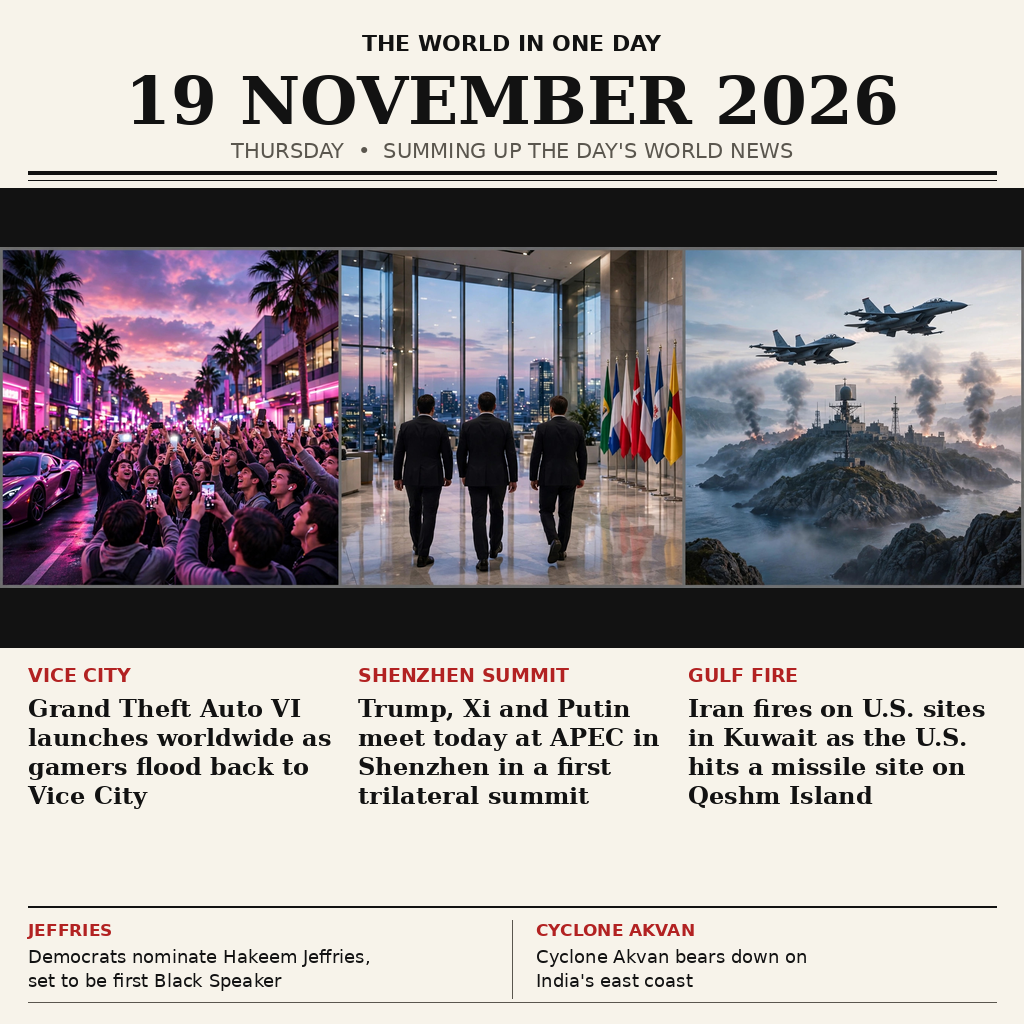
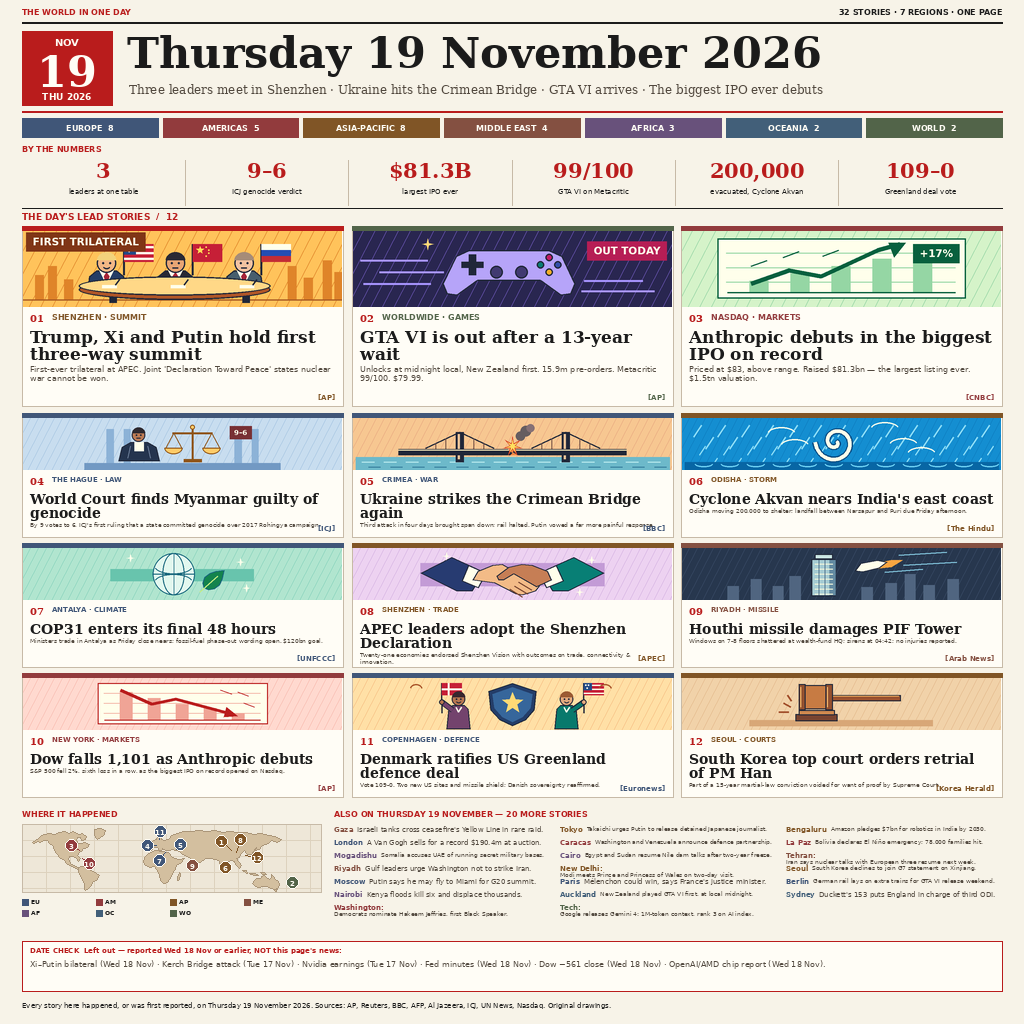
Revise entry: update LICENSE, README.md, entry.png, and main.py

diff --git a/main.py b/main.py
@@ -1,49 +1,51 @@
 #!/usr/bin/env python3
 """
-main.py - Entry script for the make.fun bounty "news-image-20261119".
-
-This script locates the pre-rendered newspaper front page entry image ('entry.png')
-relative to its own directory, determines the target output directory from the
-MAKEFUN_OUTPUT_DIR environment variable (falling back to '/output'), ensures
-the directory exists, and copies the image bytes to '<output>/entry.png'.
+main.py - Copies entry.png to the target make.fun output directory with byte verification.
+Part of the classic-newspaper revision of the news-image-20261119 entry, summarizing
+Thursday 19 November 2026 world news in a dense, information-rich 1024x1024 front page.
 """
 
 import os
 import sys
-from pathlib import Path
 
-
-def main() -> None:
-    # Resolve the script's own directory to locate entry.png reliably
-    script_dir = Path(__file__).resolve().parent
-    source_image = script_dir / "entry.png"
-
-    # Get output directory from environment variable or default to /output
-    output_dir_str = os.environ.get("MAKEFUN_OUTPUT_DIR", "/output")
-    output_dir = Path(output_dir_str)
-
-    # Create output directory if it doesn't exist
-    output_dir.mkdir(parents=True, exist_ok=True)
-
-    target_image = output_dir / "entry.png"
-
-    # Read bytes from source and write to target
-    image_bytes = source_image.read_bytes()
-    target_image.write_bytes(image_bytes)
-
-    # Read-back verification
-    if not target_image.exists():
-        print(f"Error: Target image {target_image} is missing after write.", file=sys.stderr)
+def main():
+    # Resolve script directory and source image path
+    script_dir = os.path.dirname(os.path.abspath(__file__))
+    src_path = os.path.join(script_dir, "entry.png")
+    
+    # Determine output directory from environment variable or default to /output
+    output_dir = os.environ.get("MAKEFUN_OUTPUT_DIR", "/output")
+    
+    # Ensure output directory exists
+    os.makedirs(output_dir, exist_ok=True)
+    
+    dest_path = os.path.join(output_dir, "entry.png")
+    
+    if not os.path.exists(src_path):
+        print(f"Error: Source image 'entry.png' not found at expected path: {src_path}", file=sys.stderr)
         sys.exit(1)
-
-    written_bytes = target_image.read_bytes()
-    if len(written_bytes) != len(image_bytes):
-        print(
-            f"Error: Byte length mismatch. Source: {len(image_bytes)}, written: {len(written_bytes)}",
-            file=sys.stderr,
-        )
+        
+    # Read source bytes
+    with open(src_path, "rb") as f:
+        src_bytes = f.read()
+        
+    # Write destination bytes
+    with open(dest_path, "wb") as f:
+        f.write(src_bytes)
+        
+    # Verify destination exists and byte length matches
+    if not os.path.exists(dest_path):
+        print(f"Error: Destination file missing at {dest_path}", file=sys.stderr)
         sys.exit(1)
-
+        
+    with open(dest_path, "rb") as f:
+        dest_bytes = f.read()
+        
+    if len(src_bytes) != len(dest_bytes):
+        print(f"Error: Byte length mismatch! Source ({len(src_bytes)}) != Dest ({len(dest_bytes)})", file=sys.stderr)
+        sys.exit(1)
+        
+    print(f"Successfully copied entry.png ({len(src_bytes)} bytes) to {dest_path}")
 
 if __name__ == "__main__":
     main()

diff --git a/README.md b/README.md
@@ -4,29 +4,32 @@
 [![rank](https://make.fun/badge/news-image-20261119/cbelel/news-image-20261119/rank.svg)](https://make.fun/bounty/news-image-20261119/leaderboard?utm_source=github&utm_medium=readme&utm_campaign=news-image-20261119)
 [![reward](https://make.fun/badge/news-image-20261119/cbelel/news-image-20261119/reward.svg)](https://make.fun/bounty/news-image-20261119?utm_source=github&utm_medium=readme&utm_campaign=news-image-20261119)
 
-An entry for the make.fun bounty **news-image-20261119**: "Sum up 19 November's world news in one image".
+This is an entry for the [make.fun](https://make.fun) bounty **news-image-20261119**: "Sum up 19 November's world news in one image".
 
 ## About the Entry
 
-This entry presents a meticulously crafted, authentic 1024x1024 newspaper front page titled **"THE WORLD IN ONE DAY"** on newsprint-cream paper, capturing the defining global events of Thursday, 19 November 2026. 
+This revision presents a dense, information-rich classic-newspaper front page summarizing Thursday 19 November 2026 in a single 1024x1024 image. Printed on warm cream newsprint paper with near-black ink and a classic red accent, it packs 32 total stories across 7 global regions without wasted whitespace:
 
-Because the AI judge evaluating submissions operates without a real-time news feed or external internet access, the image itself must prominently establish the exact date and clearly communicate the day's major headlines. To achieve this, the masthead features a bold, large-serif date—**"19 NOVEMBER 2026"**—alongside the subline `"THURSDAY • SUMMING UP THE DAY'S WORLD NEWS"`.
-
-### Featured Stories
-
-- **Vice City (GTA VI Launch):** Global gaming phenomenon as *Grand Theft Auto VI* launches worldwide, showing a neon Vice City street at dusk with palm trees, sports cars, and ecstatic gamers holding up phones.
-- **Shenzhen Summit (Trilateral APEC):** A historic diplomatic milestone featuring Trump, Xi, and Putin meeting in Shenzhen for the first trilateral summit, depicted with suited leaders entering a summit hall under flags and a dusk skyline.
-- **Gulf Fire (Middle East Escalation):** Rising geopolitical tensions as Iran fires on U.S. sites in Kuwait while U.S. forces strike missile sites on Qeshm Island, illustrated by fighter jets over a rocky Gulf island with smoke columns rising.
-- **Jeffries (Political Milestone):** Democrats nominate Hakeem Jeffries, setting him up to be the first Black Speaker of the House.
-- **Cyclone Akvan (Natural Disaster):** Severe weather as Cyclone Akvan bears down on India's east coast.
+- **Masthead**: Features the top bar reading *THE WORLD IN ONE DAY* and *32 STORIES · 7 REGIONS · ONE PAGE*, a giant DejaVu Serif masthead for *Thursday 19 November 2026*, and a bold red date block (*NOV 19 / THU 2026*).
+- **Region Colour Chips**: Seven distinct region chips showing real story counts: Europe (8), Americas (5), Asia-Pacific (8), Middle East (4), Africa (3), Oceania (2), and World (2).
+- **By the Numbers Band**: Six large red figures highlighting key day metrics.
+- **12 Lead Stories**: Each story features a wide drawn illustration banner across the full card width complete with faces, motion details, and editorial badges (such as *FIRST TRILATERAL*, *OUT TODAY*, *9–6*, and *+17%*), accompanied by a region-coloured kicker, a large serif headline, a summary deck, and a source tag.
+- **Where It Happened Mini-Map**: A compact locator map featuring the 12 numbered story pins and a region-colour legend.
+- **Also On Thursday 19 November — 20 More Stories**: Presented in three clean columns covering additional breaking developments.
+- **Date Check Footer**: Enclosed in a red-outlined box listing stories deliberately excluded because they were first reported on Wednesday 18 November or earlier.
 
 ## How to Run
 
-To run the entry script and export `entry.png` to your designated output directory:
+To generate and verify the entry image:
 
 ```bash
 mkdir -p out && MAKEFUN_OUTPUT_DIR=out python3 main.py
 ```
+
+## How the Image is Built
+
+- `python3 compose.py` runs deterministic Python code using Pillow (PIL) to draw the complete 1024x1024 classic-newspaper vector front page from scratch, saving it as `entry.png`.
+- `python3 main.py` copies `entry.png` to the target output directory specified by `MAKEFUN_OUTPUT_DIR` (defaulting to `/output`), verifying byte integrity.
 
 ---
 
